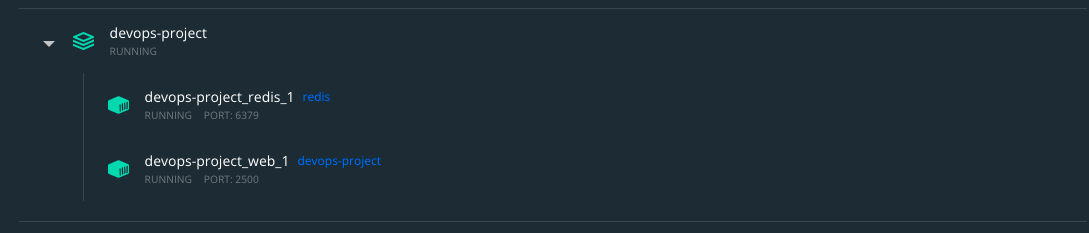
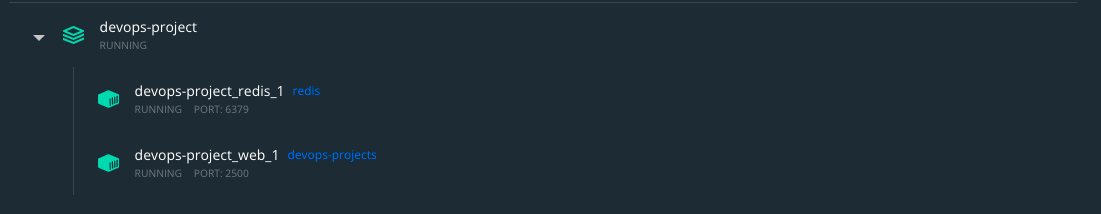
improving markdown

diff --git a/README.md b/README.md
@@ -44,7 +44,7 @@ To build a docker image of our application, first we create the [`Dockerfile`](D
 Then in a terminal, we navigate to the `devops-project` directory and run the following command:
 
 ```
-docker build -t devops-project.
+docker build -t devops-projects.
 ```
 
 This will build our docker image, base on the docker file in our directory. The `.` at the end of the commands tells Docker to look for the [`Dockerfile`](Dockerfile`) in the current directory.
@@ -58,7 +58,7 @@ docker images
 Now we run the container we just created with the following command:
 
 ```
-docker run -p 12345:3000 -d devops-project
+docker run -p 12345:3000 -d devops-projects
 ```
 
 -p maps a port on the local machine to a port inside the container
@@ -68,12 +68,14 @@ Now, we can open your web browser and go to http://localhost:12345. We can see t
 
 ![Webpage](images/image1.png)
 
-//////Now we use the command `docker ps` to check if the container is running and to get its ID. We can also print out the logs of the container using ////////
+Now we use the command `docker ps` to check if the container is running and to get its ID. Here the first container is the one we created right now, the other two bellow are the container created for the docker-compose part, which will take the image devops-projects we just created to create the orchestrated devops-project app.
 
-We tag our container with the following command:
+![dockerps](dockerps/image1.png)
+
+Now we tag our container with the following command:
 
 ```
-docker tag devops-project barbevictor/devops-project
+docker tag devops-projects barbevictor/devops-projects
 ```
 
 Now we have to olg in to Docker Hub from the terminal with the command:
@@ -85,7 +87,7 @@ docker login
 We can now push the docker image to Docker Hub with the following command:
 
 ```
-docker push barbevictor/devops-project
+docker push barbevictor/devops-projects
 ```
 
 Now when we go to my repositories on the dockerhub, we can see that the image is visible.
@@ -95,20 +97,20 @@ Now when we go to my repositories on the dockerhub, we can see that the image is
 It can now be retrived from an other computer using the command:
 
 ```
-docker pull barbevictor/devops-project
+docker pull barbevictor/devops-projects
 ```
 
 And it can be started using this command:
 
 ```
-docker run -p 12345:3000 -d barbevictor/devops-project
+docker run -p 12345:3000 -d barbevictor/devops-projects
 ```
 
 This now allows somebody to run our small CRUD application using Docker, without having it locally in his computer which was mandatory in the part 1 of our project.
 
 ## Make container orchestration using Docker Compose
 
-Now, we can orchestrate our container using Docker Compose. To do so, we first create our [`Docker compose file`](docker-compose.yml`). This file will containt all the information needed to use docker-compose.
+Now, we can orchestrate our container using Docker Compose. To do so, we first create our [`Docker compose file`](docker-compose.yml). This file will containt all the information needed to use docker-compose.
 
 Then in a terminal, we navigate to the `devops-project` directory where the Docker file and Docker-compose files are located and run the following command:
 
@@ -116,7 +118,11 @@ Then in a terminal, we navigate to the `devops-project` directory where the Dock
 docker-compose up
 ```
 
-On our docker-compose.yml file, we assigned the port 2500. Once the docker compose up command as been used, if we go to http://localhost:2500 we will have the message `Hello World, this is Victor's and pl project!`.
+We can see in the terminal that the containers for redis and the web are running correctly:
+
+![terminal](images/image6.png)
+
+On our [`Docker compose file`](docker-compose.yml), we assigned the port 2500. Once the docker compose up command as been used, if we go to http://localhost:2500 we will have the message `Hello World, this is Victor's and pl project!`.
 
 ![pageweb](images/image3.png)
 
@@ -128,7 +134,9 @@ In our terminal we can run the command `docker-compose ps` to see the composed a
 
 ![terminal](images/image5.png)
 
-With this part, we orchestrated our container using compose. The Docker volume used in the [`Docker compose file`](docker-compose.yml`) will allow use to keep data that might be modified, the Redis container stores its data in the `/data` directory
+With this part, we orchestrated our container using compose. The Docker volume used in the [`Docker compose file`](docker-compose.yml`) will allow use to keep data that might be modified, the Redis container stores its data in the `/data` directory.
+
+Docker compose created two containers, one for the web part and the other for redis. This way, our containerized application can communicate with redis which is also containerized.
 
 ## Make docker orchestration using Kubernetes
 
